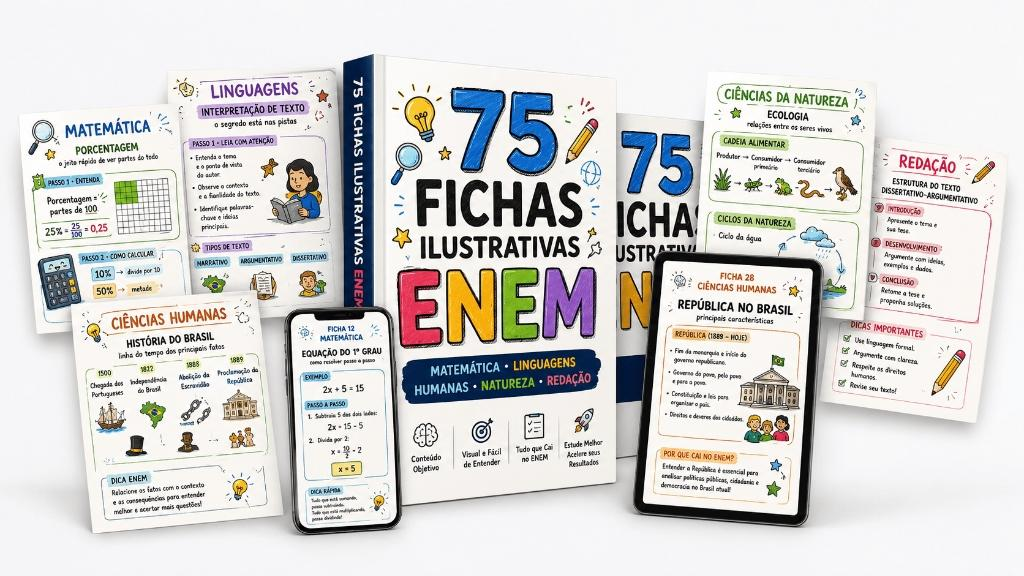
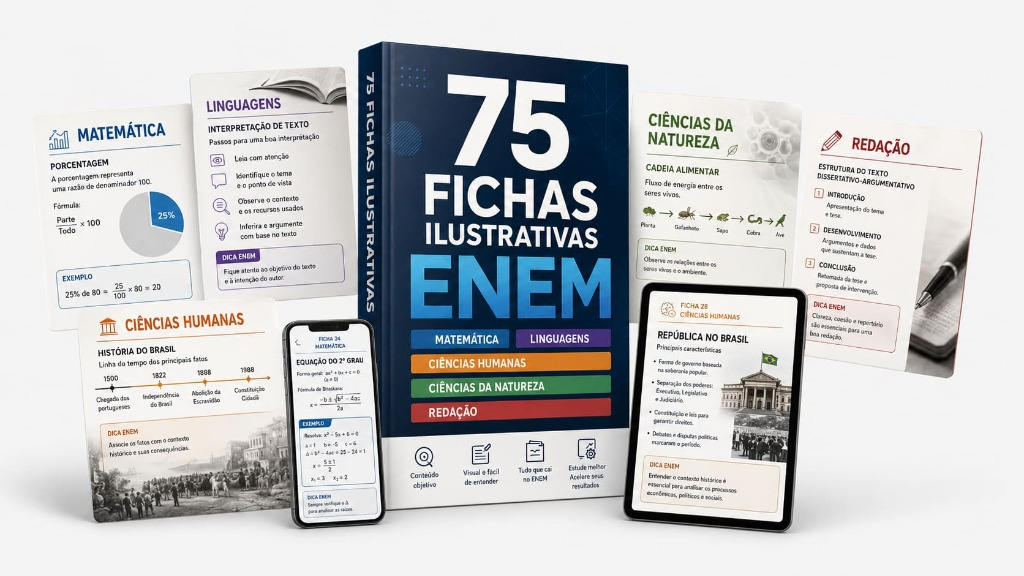
feat: substitui mockup de capa branca pelo correto mockup de capa azul escuro (mockup.png) e adiciona cache-busting v=4

diff --git a/index.html b/index.html
@@ -12,7 +12,7 @@
     <noscript><link href="https://fonts.googleapis.com/css2?family=Inter:wght@400;500;600&family=Plus+Jakarta+Sans:wght@500;600;700;800&display=swap" rel="stylesheet"></noscript>
     
     <!-- Preload Hero Image for LCP -->
-    <link rel="preload" href="assets/mockup.png?v=3" as="image" type="image/png">
+    <link rel="preload" href="assets/mockup.png?v=4" as="image" type="image/png">
 
     <!-- CSS File -->
     <link rel="stylesheet" href="style.css">
@@ -60,7 +60,7 @@
                     
                     <!-- Imagem do Mockup Oficial Abaixo da Subheadline -->
                     <div class="hero-media-centered">
-                        <img src="assets/mockup.png?v=3" alt="Mockup Oficial das 75 Fichas Ilustrativas do ENEM" class="mockup-img-centered" width="800" height="500" fetchpriority="high">
+                        <img src="assets/mockup.png?v=4" alt="Mockup Oficial das 75 Fichas Ilustrativas do ENEM" class="mockup-img-centered" width="800" height="500" fetchpriority="high">
                     </div>
                     
                     <div class="hero-cta-wrapper">